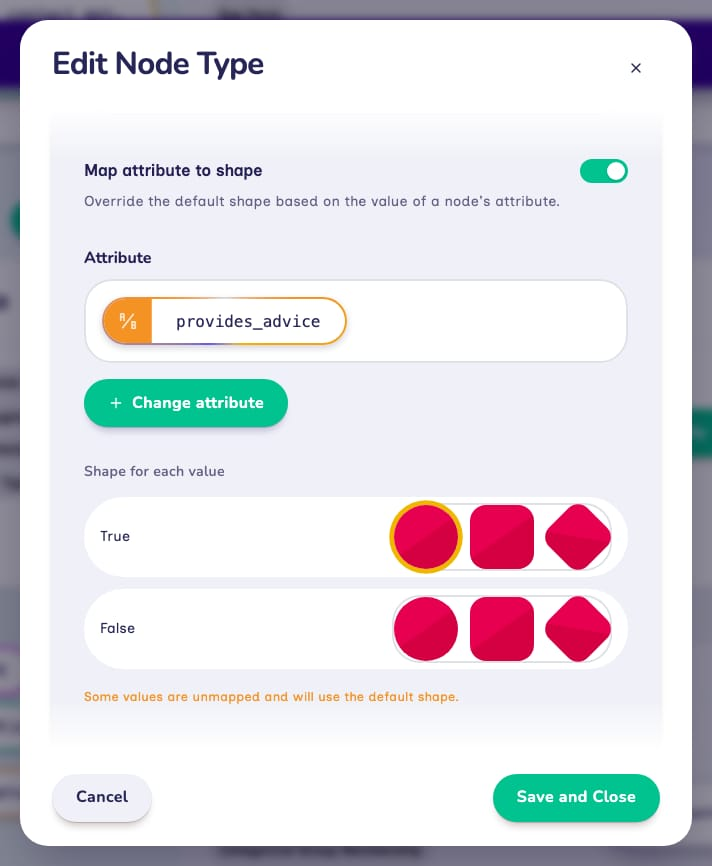
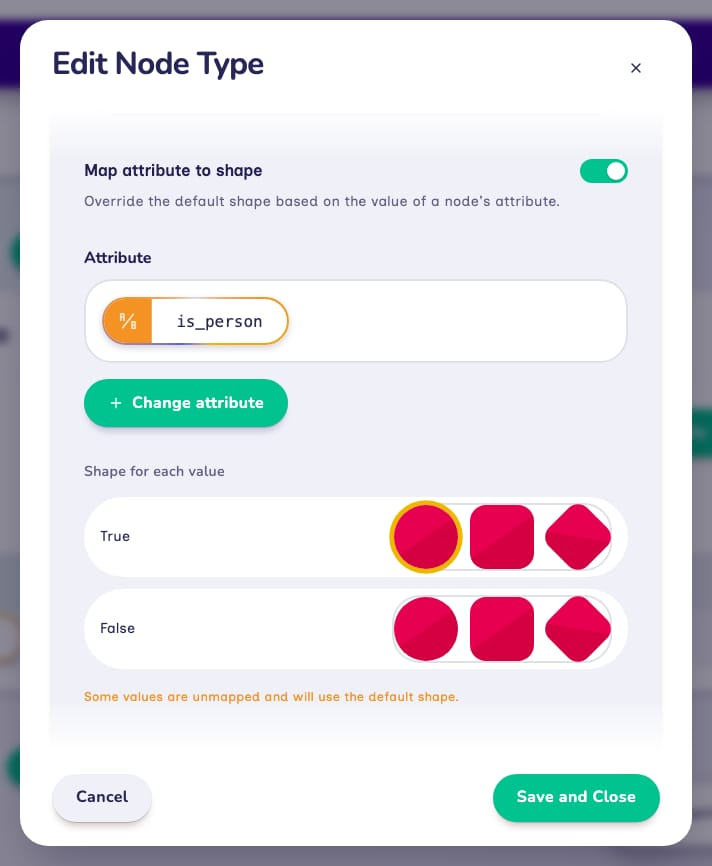
docs: capture the final Fresco setup step, and disclose page-view telemetry
fresco4.png was still the pre-4.2 capture, so the last setup step was
the one image missing the globe control the other three now show, and
the checklist called the release complete while its own row said
otherwise. Recaptured from the same 4.2.0 instance, and its row now
carries the caption the guides actually use.

The shape-mapping image is back on is_person, the attribute the example
and table beside it describe; it was captured with a Square default and
True mapped to Circle, so the picture matches the worked example again.

Fresco's PostHog init omits capture_pageview, unlike the interview
runtime, and posthog-js resolves it to "history_change" for the defaults
version Fresco pins (with capture_pageleave following it), so a $pageview
and $pageleave go out for every page. The GDPR and IT FAQ disclosures now
say so, and note that those addresses pass through the same redaction as
everything else.

diff --git a/apps/documentation/SCREENSHOTS_TO_REGENERATE.md b/apps/documentation/SCREENSHOTS_TO_REGENERATE.md
@@ -160,12 +160,12 @@ Source: `docs/get-started/planning-a-study/workflows.en.mdx`
 
 Sources: `docs/collect-data/fresco/guide.en.mdx` and `docs/collect-data/fresco/guide-vercel.en.mdx` (both reference the same images)
 
-| Image                                   | Alt text / caption                                             | Status                  |
-| --------------------------------------- | -------------------------------------------------------------- | ----------------------- |
-| `/assets/img/fresco-images/fresco1.png` | Enter a username and password                                  | ✅ Recaptured for 4.2.0 |
-| `/assets/img/fresco-images/fresco2.png` | Paste your environment variable into the form                  | ✅ Recaptured for 4.2.0 |
-| `/assets/img/fresco-images/fresco3.png` | Upload a protocol                                              | ✅ Recaptured for 4.2.0 |
-| `/assets/img/fresco-images/fresco4.png` | Import participants and optionally allow anonymous recruitment | ⬜ Not yet replaced     |
+| Image                                   | Alt text / caption                                                  | Status                  |
+| --------------------------------------- | ------------------------------------------------------------------- | ----------------------- |
+| `/assets/img/fresco-images/fresco1.png` | Enter a username and password                                       | ✅ Recaptured for 4.2.0 |
+| `/assets/img/fresco-images/fresco2.png` | Paste your environment variable into the form                       | ✅ Recaptured for 4.2.0 |
+| `/assets/img/fresco-images/fresco3.png` | Upload a protocol                                                   | ✅ Recaptured for 4.2.0 |
+| `/assets/img/fresco-images/fresco4.png` | The final setup step links to documentation and opens the dashboard | ✅ Recaptured for 4.2.0 |
 
 ---
 
